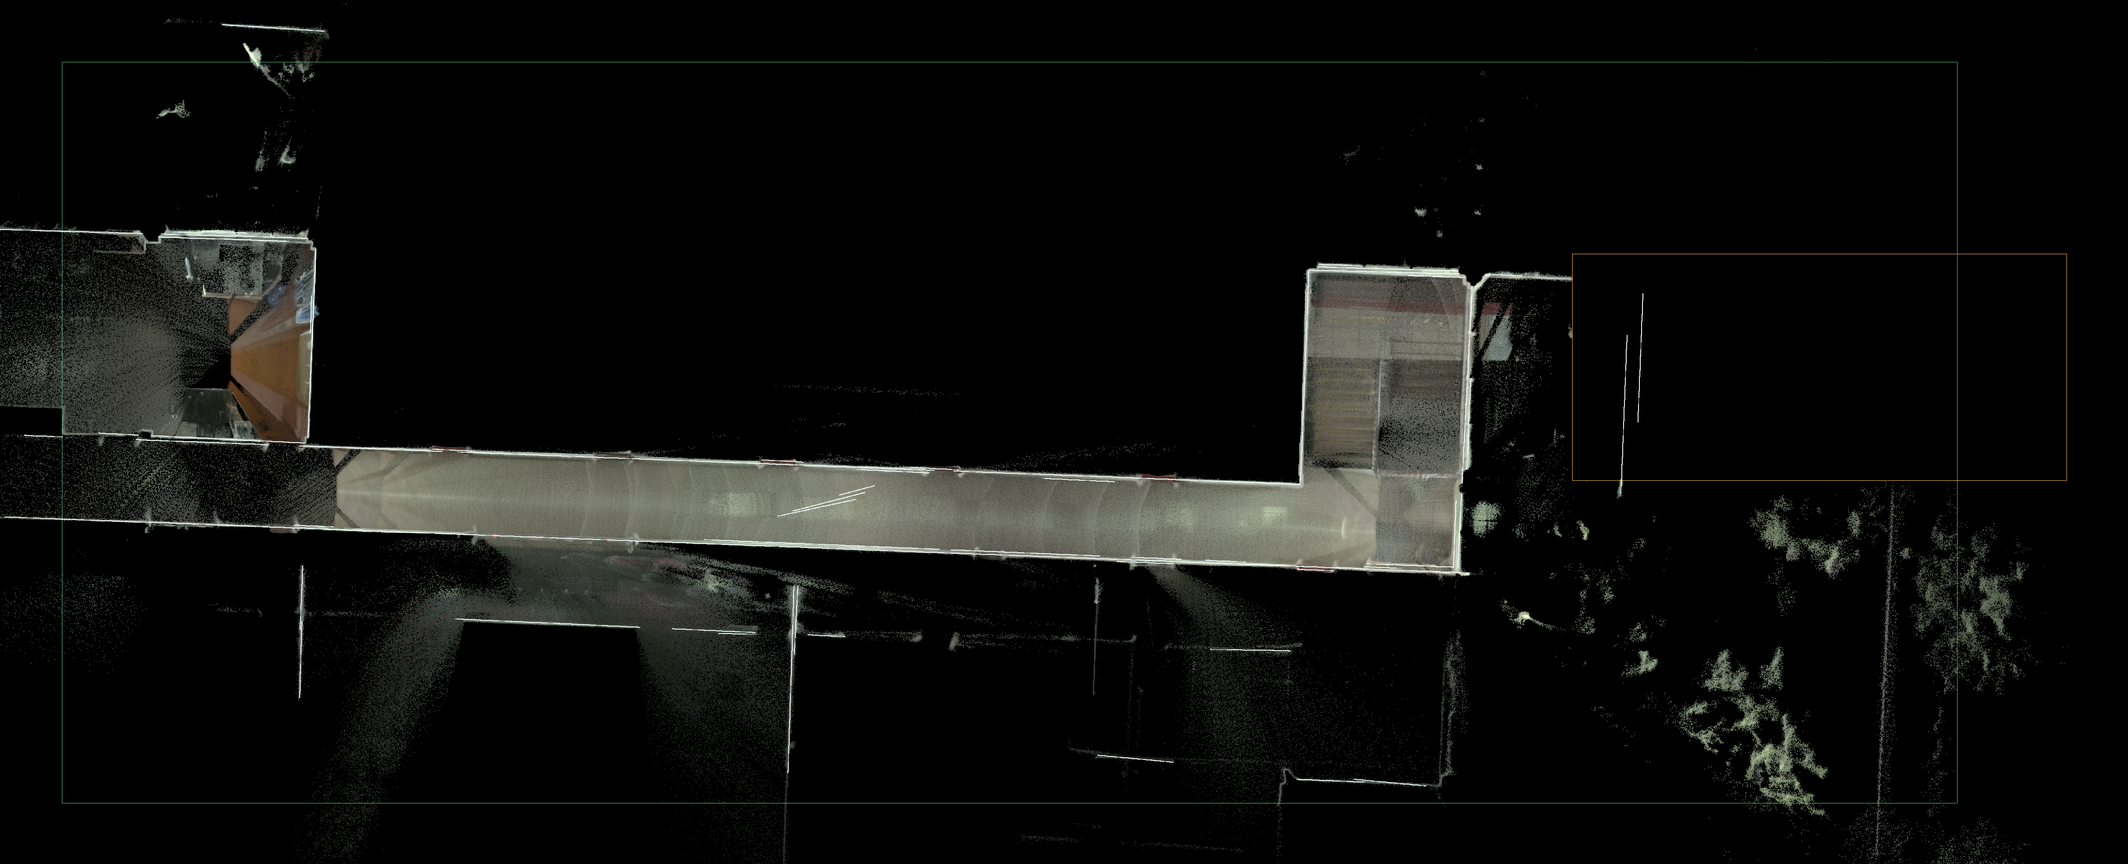
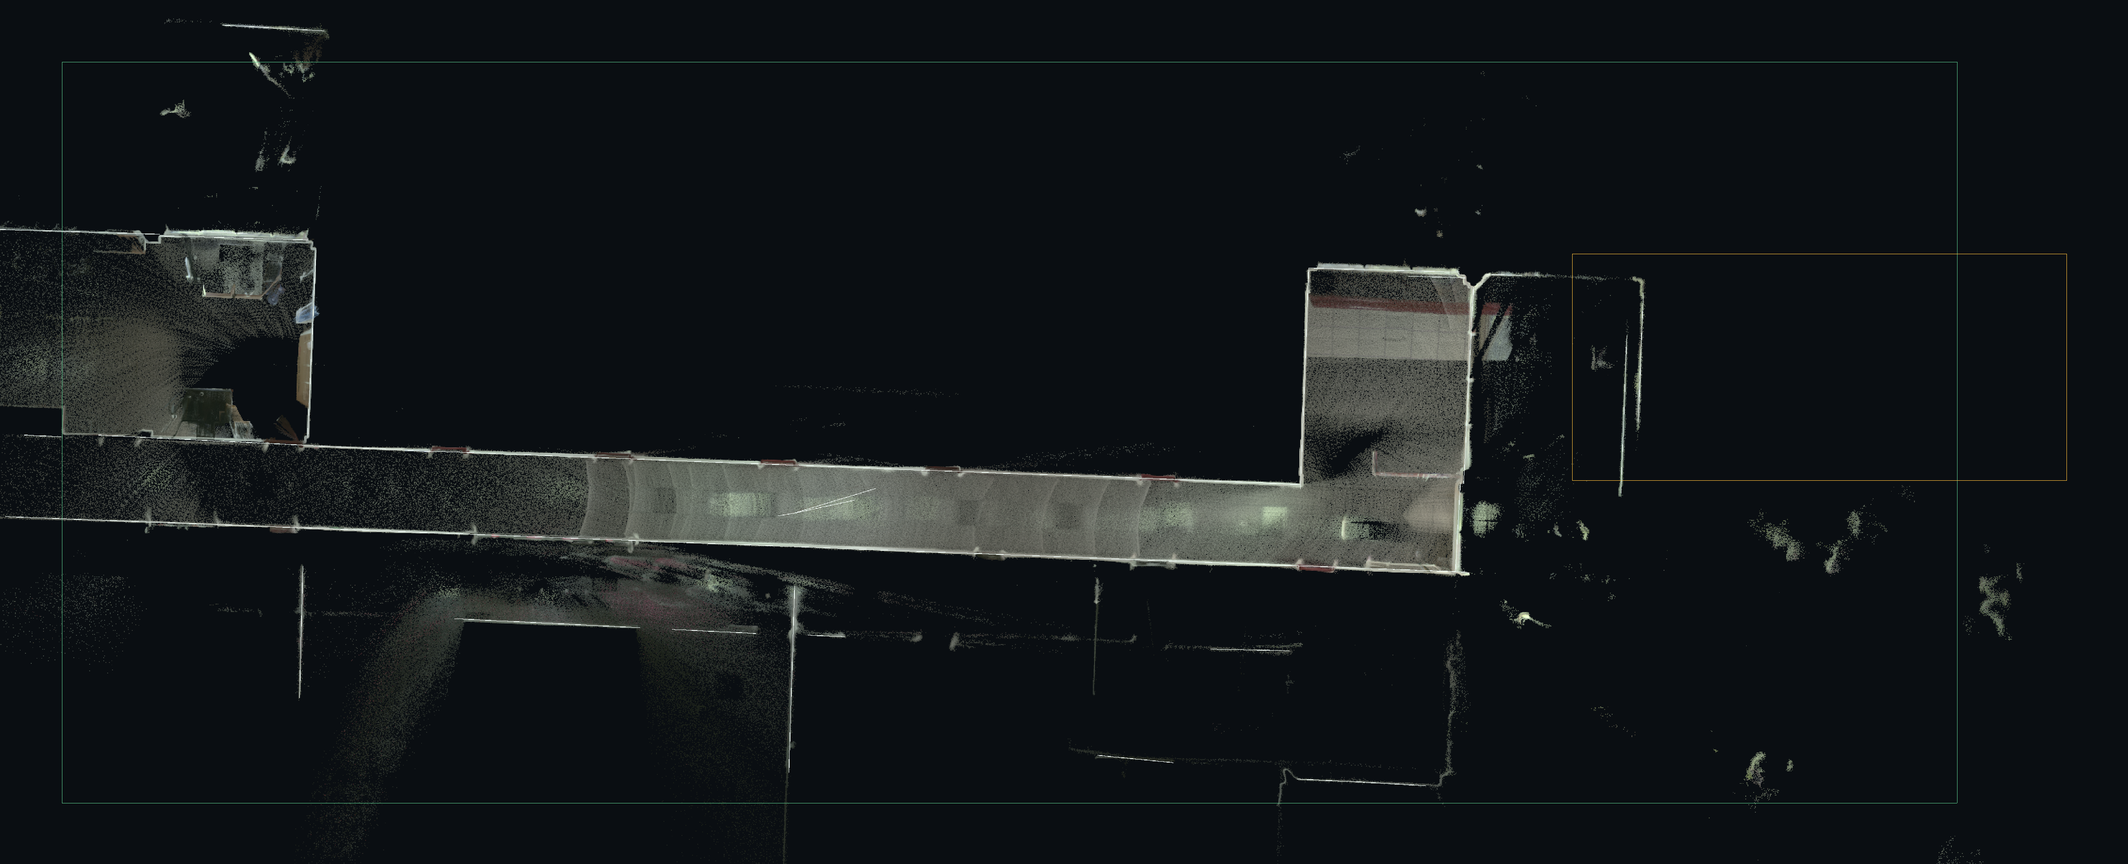
Re-run the cleanup case on the integrated a+b+c chain and record the new counts
Owner fixed the merge order (#13 -> #15 -> #14 integrated as PR #19, this PR
merges after it). Re-run the case on the integrated wall-candidate chain and
refresh every number instead of reusing the main-baseline run.

- wall candidates 64 -> 57 after cleanup (66 fitted segments; dedupe merges
  25 candidates into longer axes), nodes 87 -> 80, faces 3 -> 1, rooms 0 -> 0,
  unclosed issues 48 -> 50; east wall bands still carried by >=4,900 points
- #6 artifact check: no candidate centred in its box before cleanup, a 0.90 m
  segment there after; recorded honestly, not claimed as removed
- script now writes the comparison figures itself (pngjs devDependency) and
  accepts SURVEY_ARTIFACT_BOXES for segment-level before/after checks
- test adds an integrated-chain fixture (dedupe + join + minimal faces) that
  keeps walls, nodes and closure unchanged after removing outdoor clutter
- docs renumbered; base/CI/save-reopen scope restated for the integrated state

diff --git a/windows-studio/scripts/cleanup-case-study.ts b/windows-studio/scripts/cleanup-case-study.ts
@@ -6,17 +6,19 @@
  *   SURVEY_REAL_FIXTURE=<原件.pcd> SURVEY_WORKSPACE=<输出目录> \
  *   SURVEY_REGIONS='[{"id":"A0","label":"...","x":[33,45],"y":[-3,2.5],"z":[-10,20],"basis":"..."}]' \
  *   npm run cleanup:case-study
- * 可选环境变量：ELEVATION_M / HEIGHT_M / THICKNESS_M（默认 0 / 3 / 0.2）、SURVEY_SEED（默认 [12.5,-2.5]）。
+ * 可选环境变量：ELEVATION_M / HEIGHT_M / THICKNESS_M（默认 0 / 3 / 0.2）、SURVEY_SEED（默认 [12.5,-2.5]）、
+ *   SURVEY_ARTIFACT_BOXES（如 [{"id":"#6","box":[-5.1,-2.4,-3.1,-1.5]}]，核对指定伪影段在清理前后是否仍在）。
  * 只读源件；输出写入 SURVEY_WORKSPACE（默认 artifacts/cleanup-case-study/<样本名>）。
  * 未验证范围：Windows/Electron 实机保存重开、界面交互；本脚本不改动任何源点云或工程文件。
  */
 import { createHash } from "node:crypto";
 import { mkdir, open, writeFile } from "node:fs/promises";
 import { basename } from "node:path";
+import { PNG } from "pngjs";
 import { readCloud } from "../src/pipeline/binaryPcd";
 import { fitWallLines, type WallSegment } from "../src/pipeline/wallLines";
 import { ClipState, type RegionClipRule } from "../src/domain/cleaning";
-import { buildingFromSegments, roomsFromWalls } from "../src/domain/buildingOps";
+import { buildingFromSegments, levelClosure, roomsFromWalls } from "../src/domain/buildingOps";
 import type { PointCloudData } from "../../src/domain/types";
 import type { SurveySource } from "../src/domain/project";
 
@@ -73,7 +75,15 @@ const envelopeSeconds = (performance.now() - envelopeStart) / 1000;
 const inBox = (x: number, y: number) => x >= buildingBox.min[0] && x <= buildingBox.max[0] && y >= buildingBox.min[1] && y <= buildingBox.max[1];
 const countInBox = (c: PointCloudData) => { let n = 0; for (let i = 0; i < c.visible.length; i++) if (c.visible[i] && inBox(c.positions[i * 3]!, c.positions[i * 3 + 1]!)) n++; return n; };
 
-// ---- 3. 墙候选链路（与 analysis.worker.ts 的 building 分支同一顺序：高度剖切 → fitWallLines → buildingFromSegments → roomsFromWalls）----
+// ---- 3. 选定区域：坐标、Z 范围与入选理由全部来自命令行，并随 JSON 落盘，他人可逐项重做 ----
+// 清理只用工程现有 RegionClipRule（俯视正交投影矩形，穿透视线全部深度），与 CloudView 的框选同一实现。
+const regions = JSON.parse(process.env.SURVEY_REGIONS ?? "[]") as Array<{ id: string; label: string; x: P; y: P; z: P; basis: string }>;
+if (!regions.length) throw Error("Set SURVEY_REGIONS to the selected region list (JSON).");
+const box = buildingBox, w = box.max[0] - box.min[0], h = box.max[1] - box.min[1], cx = (box.min[0] + box.max[0]) / 2, cy = (box.min[1] + box.max[1]) / 2;
+// 与 CloudView 俯视一致的 NDC 映射（正交俯视，覆盖整个建筑范围）。
+const ruleFor = (region: { x: P; y: P }): RegionClipRule => { const r = [(region.x[0] - cx) * 2 / w, (region.y[0] - cy) * 2 / h, (region.x[1] - cx) * 2 / w, (region.y[1] - cy) * 2 / h].map(v => Math.max(-1, Math.min(1, v))) as [number, number, number, number]; return { matrix: [2 / w, 0, 0, 0, 0, 2 / h, 0, 0, 0, 0, 1, 0, -2 * cx / w, -2 * cy / h, 0, 1], rect: r, mode: "remove" }; };
+
+// ---- 4. 墙候选链路（与 analysis.worker.ts 的 building 分支同一顺序：高度剖切 → fitWallLines → buildingFromSegments → roomsFromWalls）----
 const source = { name, units: "m", synthetic: false, native: { token: "cleanup", name, size: stat.size, sha256: sha256Before } } as SurveySource;
 const options = { elevationM, heightM, thicknessM, levelName: "清理案例" };
 async function runChain(visible: Uint8Array) {
@@ -85,18 +95,12 @@ async function runChain(visible: Uint8Array) {
   const fitSeconds = (performance.now() - started) / 1000;
   const building = buildingFromSegments(source, options, fitted.segments);
   const rooms = roomsFromWalls(building, building.levels[0]!.id, heightM);
-  return { working, fitted, band, fitSeconds, segments: fitted.segments, rooms: rooms.length, evidenceCells: fitted.evidenceCells };
+  const report = levelClosure(building, building.levels[0]!.id);
+  return { working, fitted, band, fitSeconds, segments: fitted.segments, rooms: rooms.length, unclosedIssues: building.unclosedIssues?.length ?? 0, closure: report, evidenceCells: fitted.evidenceCells, fittedSegments: fitted.fittedSegments ?? fitted.segments.length, dedupedSegments: fitted.dedupedSegments ?? fitted.segments.length };
 }
 const baseline = await runChain(Uint8Array.from(cloud.visible));
 
-// ---- 4. 选定区域与清理：只用工程现有 RegionClipRule（投影矩形，穿透视线全部深度）----
-// 区域参数（坐标米、Z 范围米）由脚本内常量给出，JSON 一并落盘，他人可逐项重做。
-const regions = JSON.parse(process.env.SURVEY_REGIONS ?? "[]") as Array<{ id: string; label: string; x: P; y: P; z: P; basis: string }>;
-if (!regions.length) throw Error("Set SURVEY_REGIONS to the selected region list (JSON).");
-const box = buildingBox, w = box.max[0] - box.min[0], h = box.max[1] - box.min[1], cx = (box.min[0] + box.max[0]) / 2, cy = (box.min[1] + box.max[1]) / 2;
-// 与 CloudView 俯视一致的 NDC 映射（正交俯视，覆盖整个建筑范围）：像素/NDC 由相机与视口按线性关系给出。
-const ruleFor = (region: { x: P; y: P }): RegionClipRule => { const r = [(region.x[0] - cx) * 2 / w, (region.y[0] - cy) * 2 / h, (region.x[1] - cx) * 2 / w, (region.y[1] - cy) * 2 / h].map(v => Math.max(-1, Math.min(1, v))) as [number, number, number, number]; return { matrix: [2 / w, 0, 0, 0, 0, 2 / h, 0, 0, 0, 0, 1, 0, -2 * cx / w, -2 * cy / h, 0, 1], rect: r, mode: "remove" }; };
-
+// ---- 5. 清理：只用工程现有框选剔除 ----
 const regionStats = regions.map(region => {
   let points = 0, inBand = 0;
   for (let i = 0; i < cloud.visible.length; i++) {
@@ -120,7 +124,67 @@ for (const region of regionStats) {
 }
 const after = await runChain(cleaned);
 
-// ---- 5. 墙段逐段对照 ----
+// ---- 6. 证据图（与本文档的 pr-evidence 图同源）：2 cm 俯视对照 + 区域放大 + 立面投影 ----
+// 用 pngjs 直接写 PNG，避免额外图像库；图幅常量固定，便于前后对照。
+const FIGURE = { cell: .02, scale: 3, X0: -5.15, X1: 46.5, Y0: -12.35, Y1: 8.65, zoomCell: .02, zoomScale: 3, sectionZ: [-6, 6] as [number, number] };
+function topView(cloudRef: PointCloudData, keep: (i: number) => boolean, x0 = FIGURE.X0, x1 = FIGURE.X1, y0 = FIGURE.Y0, y1 = FIGURE.Y1, scale = FIGURE.scale) {
+  const w = Math.round((x1 - x0) / FIGURE.cell), h = Math.round((y1 - y0) / FIGURE.cell), dens = new Float32Array(w * h), cols = new Float32Array(w * h * 3);
+  for (let i = 0; i < cloudRef.visible.length; i++) {
+    if (!keep(i)) continue;
+    const x = cloudRef.positions[i * 3]!, y = cloudRef.positions[i * 3 + 1]!, z = cloudRef.positions[i * 3 + 2]!;
+    if (x < x0 || x > x1 || y < y0 || y > y1 || z < elevationM || z > elevationM + heightM) continue;
+    const k = Math.floor((y - y0) / FIGURE.cell) * w + Math.floor((x - x0) / FIGURE.cell);
+    dens[k]!++; cols[k * 3] += cloudRef.colors[i * 3]!; cols[k * 3 + 1] += cloudRef.colors[i * 3 + 1]!; cols[k * 3 + 2] += cloudRef.colors[i * 3 + 2]!;
+  }
+  const img = new PNG({ width: w * scale, height: h * scale });
+  for (let y = 0; y < h; y++) for (let x = 0; x < w; x++) {
+    const k = y * w + x, d = dens[k]!;
+    const lum = d ? Math.min(1, Math.log1p(d) / Math.log1p(60)) * .85 + .15 : 0;
+    const r = d ? Math.min(255, cols[k * 3]! / d * lum + 20) : 10, g = d ? Math.min(255, cols[k * 3 + 1]! / d * lum + 24) : 14, b = d ? Math.min(255, cols[k * 3 + 2]! / d * lum + 20) : 18;
+    for (let sy = 0; sy < scale; sy++) for (let sx = 0; sx < scale; sx++) { const idx = (((h - 1 - y) * scale + sy) * w * scale + x * scale + sx) * 4; img.data[idx] = r; img.data[idx + 1] = g; img.data[idx + 2] = b; img.data[idx + 3] = 255; }
+  }
+  return { img, w, h, scale, x0, y0, y1, cell: FIGURE.cell };
+}
+const put = (img: PNG, x: number, y: number, c: [number, number, number]) => { for (const [dx, dy] of [[0, 0], [1, 0], [0, 1]]) { const ix = x + dx, iy = y + dy; if (ix < 0 || iy < 0 || ix >= img.width || iy >= img.height) continue; const idx = (iy * img.width + ix) * 4; img.data[idx] = c[0]; img.data[idx + 1] = c[1]; img.data[idx + 2] = c[2]; img.data[idx + 3] = 255; } };
+const line = (img: PNG, v: ReturnType<typeof topView>, a: P, b: P, c: [number, number, number]) => {
+  const sx = (p: P) => Math.round((p[0] - v.x0) / v.cell) * v.scale, sy = (p: P) => Math.round((v.y1 - p[1]) / v.cell) * v.scale;
+  const x0 = sx(a), y0 = sy(a), x1 = sx(b), y1 = sy(b), steps = Math.max(1, Math.ceil(Math.hypot(x1 - x0, y1 - y0)));
+  for (let i = 0; i <= steps; i++) put(img, Math.round(x0 + (x1 - x0) * i / steps), Math.round(y0 + (y1 - y0) * i / steps), c);
+};
+const rect = (img: PNG, v: ReturnType<typeof topView>, x0: number, y0: number, x1: number, y1: number, c: [number, number, number]) => {
+  line(img, v, [x0, y0], [x1, y0], c); line(img, v, [x1, y0], [x1, y1], c); line(img, v, [x1, y1], [x0, y1], c); line(img, v, [x0, y1], [x0, y0], c);
+};
+const crop = (v: ReturnType<typeof topView>, box: [number, number, number, number]) => {
+  const [bx0, by0, bx1, by1] = box, X0 = Math.floor((bx0 - v.x0) / v.cell) * v.scale, X1 = Math.ceil((bx1 - v.x0) / v.cell) * v.scale, Y0 = Math.floor((v.y1 - by1) / v.cell) * v.scale, Y1 = Math.ceil((v.y1 - by0) / v.cell) * v.scale;
+  const w = Math.max(1, Math.min(v.img.width, X1) - Math.max(0, X0)), h = Math.max(1, Math.min(v.img.height, Y1) - Math.max(0, Y0)), out = new PNG({ width: w, height: h });
+  for (let y = 0; y < h; y++) for (let x = 0; x < w; x++) { const s = ((Math.max(0, Y0) + y) * v.img.width + Math.max(0, X0) + x) * 4, d = (y * w + x) * 4; for (let c = 0; c < 4; c++) out.data[d + c] = v.img.data[s + c]!; }
+  return out;
+};
+const sideBySide = (left: PNG, right: PNG) => {
+  const gap = 20, img = new PNG({ width: left.width + gap + right.width, height: Math.max(left.height, right.height) });
+  for (let i = 3; i < img.data.length; i += 4) img.data[i] = 255;
+  for (const [src, offset] of [[left, 0], [right, left.width + gap]] as Array<[PNG, number]>) for (let y = 0; y < src.height; y++) for (let x = 0; x < src.width; x++) { const s = (y * src.width + x) * 4, d = (y * img.width + offset + x) * 4; for (let c = 0; c < 4; c++) img.data[d + c] = src.data[s + c]!; }
+  return img;
+};
+const eastern = regions.reduce((m, r) => Math.max(m, r.x[1]), -Infinity), figureBox: [number, number, number, number] = [Math.min(...regions.map(r => r.x[0])), Math.min(...regions.map(r => r.y[0])), eastern, Math.max(...regions.map(r => r.y[1]))];
+const viewBefore = topView(cloud, i => !!cloud.visible[i]), remaining = topView(cloud, i => !!cleaned[i]);
+for (const [v, segs] of [[viewBefore, baseline.segments], [remaining, after.segments]] as Array<[ReturnType<typeof topView>, typeof baseline.segments]>) {
+  rect(v.img, v, buildingBox.min[0], buildingBox.min[1], buildingBox.max[0], buildingBox.max[1], [90, 200, 140]);
+  rect(v.img, v, figureBox[0], figureBox[1], figureBox[2], figureBox[3], [255, 190, 60]);
+  for (const s of segs) line(v.img, v, s.a, s.b, [240, 250, 245]);
+}
+await mkdir(`${out}/figures`, { recursive: true });
+await writeFile(`${out}/figures/before.png`, PNG.sync.write(viewBefore.img));
+await writeFile(`${out}/figures/after.png`, PNG.sync.write(remaining.img));
+await writeFile(`${out}/figures/before-after.png`, PNG.sync.write(sideBySide(viewBefore.img, remaining.img)));
+await writeFile(`${out}/figures/region-before.png`, PNG.sync.write(crop(viewBefore, figureBox)));
+await writeFile(`${out}/figures/region-after.png`, PNG.sync.write(crop(remaining, figureBox)));
+// 图例：左 = 清理前，右 = 清理后；同一范围、同一配色、同一墙候选绘制方式。
+
+
+
+
+// ---- 7. 墙段逐段对照 ----
 // 逐段对照的第一层：给出每段的墙轴方向与中轴平行距离；判定“同一墙段”见下方 sameWall。
 const axisDistance = (s: WallSegment, other: WallSegment) => {
   const length = distance(s.a, s.b), oLen = distance(other.a, other.b);
@@ -181,7 +245,14 @@ const eastSupport = (working: PointCloudData, segments: WallSegment[]) => segmen
   }
   return { a: s.a.map(round) as P, b: s.b.map(round) as P, lengthM: round(distance(s.a, s.b)), support: s.support, pointsEastOfRegionM: points };
 });
-// ---- 6. 墙厚带内点数（伪影判定口径与 PR #8 诊断一致：墙厚带内点数、0.45 m 带宽内点数）----
+// 伪影段核对（#8 诊断的缺陷段）：给出清理前后中心落在指定方框内的候选，用于判断清理是否影响该段。
+const artifacts: Array<{ id: string; box: [number, number, number, number]; before: Array<{ a: P; b: P; lengthM: number }>; after: Array<{ a: P; b: P; lengthM: number }> }> = [];
+const artifactBoxes = JSON.parse(process.env.SURVEY_ARTIFACT_BOXES ?? "[]") as Array<{ id: string; box: [number, number, number, number] }>;
+for (const { id, box: b } of artifactBoxes) {
+  const inside = (segs: WallSegment[]) => segs.filter(s => (s.a[0] + s.b[0]) / 2 >= b[0] && (s.a[0] + s.b[0]) / 2 <= b[2] && (s.a[1] + s.b[1]) / 2 >= b[1] && (s.a[1] + s.b[1]) / 2 <= b[3]).map(s => ({ a: s.a.map(round) as P, b: s.b.map(round) as P, lengthM: round(distance(s.a, s.b)) }));
+  artifacts.push({ id, box: b, before: inside(baseline.segments), after: inside(after.segments) });
+}
+// ---- 8. 墙厚带内点数（伪影判定口径与 PR #8 诊断一致：墙厚带内点数、0.45 m 带宽内点数）----
 const bandMetrics = (working: PointCloudData, segments: WallSegment[]) => segments.map(s => {
   const dx = s.b[0] - s.a[0], dy = s.b[1] - s.a[1], length = Math.hypot(dx, dy), half = thicknessM / 2;
   let inside = 0, near = 0;
@@ -196,7 +267,7 @@ const bandMetrics = (working: PointCloudData, segments: WallSegment[]) => segmen
 });
 const beforeMetrics = bandMetrics(baseline.working, baseline.segments), afterMetrics = bandMetrics(after.working, after.segments);
 
-// ---- 7. 源件完整性复核 ----
+// ---- 9. 源件完整性复核 ----
 const handle2 = await open(file, "r"), hash2 = createHash("sha256");
 for (let offset = 0; offset < stat.size; offset += 64 * 1024 ** 2) { const size = Math.min(64 * 1024 ** 2, stat.size - offset), buffer = Buffer.alloc(size); await handle2.read(buffer, 0, size, offset); hash2.update(buffer); }
 const sha256After = hash2.digest("hex"); await handle2.close();
@@ -211,8 +282,8 @@ const report = {
   timings: { decodeSeconds: round(decodeSeconds), envelopeSeconds: round(envelopeSeconds), baselineFitSeconds: round(baseline.fitSeconds), afterFitSeconds: round(after.fitSeconds) },
   regions: regionStats,
   removalLog,
-  baseline: { pointsInBuildingEnvelopeAndBand: baseline.band, evidenceCells: baseline.evidenceCells, wallCandidates: baseline.segments.length, rooms: baseline.rooms },
-  after: { pointsInBuildingEnvelopeAndBand: after.band, evidenceCells: after.evidenceCells, wallCandidates: after.segments.length, rooms: after.rooms },
+  baseline: { pointsInBuildingEnvelopeAndBand: baseline.band, evidenceCells: baseline.evidenceCells, fittedSegments: baseline.fittedSegments, wallCandidates: baseline.segments.length, rooms: baseline.rooms, unclosedIssues: baseline.unclosedIssues, closure: baseline.closure },
+  after: { pointsInBuildingEnvelopeAndBand: after.band, evidenceCells: after.evidenceCells, fittedSegments: after.fittedSegments, wallCandidates: after.segments.length, rooms: after.rooms, unclosedIssues: after.unclosedIssues, closure: after.closure },
   removedPoints: removed,
   regionPointsInRegister: regionStats.map((r, i) => ({ id: r.id, points: r.points, inHeightBandPoints: r.inHeightBandPoints, removedByRule: removalLog[i]!.removed })),
   retainedAfterCleanup: cleaned.reduce((sum, v) => sum + v, 0),
@@ -220,9 +291,11 @@ const report = {
   added: addedDetail,
   lostSegments: lostDetail,
   eastSupport: { before: eastSupport(baseline.working, baseline.segments), after: eastSupport(after.working, after.segments) },
+  artifacts,
   metrics: { before: beforeMetrics, after: afterMetrics, thicknessPairs: mutual.map(m => ({ beforeIndex: m.beforeIndex, afterIndex: m.afterIndex, pointsInThicknessBefore: beforeMetrics[m.beforeIndex]!.pointsInThickness, pointsInThicknessAfter: afterMetrics[m.afterIndex]!.pointsInThickness })) },
 };
 await writeFile(`${out}/cleanup-case-study.json`, JSON.stringify(report, null, 2));
 await writeFile(`${out}/segments-before.json`, JSON.stringify(baseline.segments));
 await writeFile(`${out}/segments-after.json`, JSON.stringify(after.segments));
+await writeFile(`${out}/figures/manifest.json`, JSON.stringify({ figures: ["before.png", "after.png", "before-after.png", "region-before.png", "region-after.png"], regionFigure: figureBox, buildingEnvelope: report.buildingEnvelope, legend: "left = before cleanup, right = after cleanup; green = building envelope, orange = cleaned region, white = wall candidates" }, null, 2));
 console.log(JSON.stringify({ source: report.source, buildingEnvelope: report.buildingEnvelope, regions: report.regions, removalLog, baseline: report.baseline, after: report.after, lostSegments: report.lostSegments.length, timings: report.timings }, null, 2));

diff --git a/windows-studio/tests/cleanup-case-study.test.ts b/windows-studio/tests/cleanup-case-study.test.ts
@@ -2,13 +2,15 @@ import { expect, it } from "vitest";
 import type { PointCloudData } from "../../src/domain/types";
 import { ClipState, pointInClip, type RegionClipRule } from "../src/domain/cleaning";
 import { fitWallLines } from "../src/pipeline/wallLines";
+import { buildingFromSegments, levelClosure, roomsFromWalls } from "../src/domain/buildingOps";
 import type { SurveySource } from "../src/domain/project";
 
 /**
  * RD-02 清理案例的夹具与回归：
  * 1. 工程现有框选规则（俯视正交投影矩形、穿透全部深度）只删除框内点，框外点逐点保留，可撤销；
  * 2. 建筑包络（30cm 栅格 → 1m 窗口密度 → 8 邻接连片）不把独立的室外结构并入建筑范围；
- * 3. 墙段对照按“同一墙轴 + 投影覆盖”判同一墙段，不被拟合粒度变化误判为丢失。
+ * 3. 集成后墙候选链路（去重 + 墙网连接 + 最小面房间）在清理杂点后不丢墙、不改变闭合结论；
+ * 4. 墙段对照按“同一墙轴 + 投影覆盖”判同一墙段，不被拟合粒度变化误判为丢失。
  */
 
 const keepCount = (cloud: PointCloudData, rule: RegionClipRule) => { let n = 0; for (let i = 0; i < cloud.visible.length; i++) if (!pointInClip(cloud.positions[i * 3]!, cloud.positions[i * 3 + 1]!, cloud.positions[i * 3 + 2]!, rule)) n++; return n; };
@@ -60,6 +62,39 @@ it("删除框内杂点不减少真实墙面证据：墙候选与墙长保持", a
   const after = await fitWallLines(cloud, () => {});
   expect(after.segments.length).toBe(before.segments.length);
   expect(after.evidenceCells).toBe(before.evidenceCells);
+  const total = (segs: typeof before.segments) => segs.reduce((sum, s) => sum + Math.hypot(s.b[0] - s.a[0], s.b[1] - s.a[1]), 0);
+  expect(total(after.segments)).toBeCloseTo(total(before.segments), 6);
+});
+
+it("集成后墙候选链路（去重 + 连接 + 最小面）在删除室外杂点后保留全部墙段与闭合状态", async () => {
+  // 4×3 m 封闭房间（0.06 m 证据格、0.1 m 网格、0.1 m 高度步长），外加东侧 6 m 外的一团室外杂点。
+  const rows: number[][] = [];
+  const wall = (x0: number, y0: number, x1: number, y1: number) => {
+    const steps = Math.ceil(Math.hypot(x1 - x0, y1 - y0) / .06);
+    for (let i = 0; i <= steps; i++) for (let t = -.05; t <= .05; t += .05) for (let z = .1; z <= 2.9; z += .1) {
+      const x = x0 + (x1 - x0) * i / steps, y = y0 + (y1 - y0) * i / steps, ox = -(y1 - y0), oy = x1 - x0, len = Math.hypot(ox, oy) || 1;
+      rows.push([x + ox / len * t, y + oy / len * t, z]);
+    }
+  };
+  wall(0, 0, 4, 0); wall(4, 0, 4, 3); wall(0, 0, 0, 3); wall(0, 3, 4, 3);
+  for (let i = 0; i < 300; i++) rows.push([10 + (i % 10) * .05, -(i % 12) * .05, .6 + (i % 5) * .02]);
+  const cloud = cloudOf(rows);
+  const source: SurveySource = { name: "case.pcd", units: "m", synthetic: true } as SurveySource;
+  const options = { elevationM: 0, heightM: 3, thicknessM: .2, levelName: "案例" };
+  const seal = (m: ReturnType<typeof buildingFromSegments>) => { const id = m.levels[0]!.id; return { report: levelClosure(m, id), unclosedIssues: m.unclosedIssues ?? [], rooms: roomsFromWalls(m, id, 3) }; };
+  const before = await fitWallLines(cloud, () => {});
+  const beforeClosure = seal(buildingFromSegments(source, options, before.segments));
+  const rule = topViewRule([-2, -3, 12, 5], [9.4, -1.2, 10.6, .2]);
+  new ClipState(cloud).sync([rule]);
+  const after = await fitWallLines(cloud, () => {});
+  const afterClosure = seal(buildingFromSegments(source, options, after.segments));
+  // 清理只删掉室外杂点：拟合段数、墙候选数、墙网节点与房间结论都不变。
+  expect(after.evidenceCells).toBe(before.evidenceCells);
+  expect(after.segments.length).toBe(before.segments.length);
+  expect(afterClosure.rooms.length).toBe(beforeClosure.rooms.length);
+  expect(afterClosure.report.walls).toBe(beforeClosure.report.walls);
+  expect(afterClosure.report.nodes).toBe(beforeClosure.report.nodes);
+  expect(afterClosure.unclosedIssues.length).toBe(beforeClosure.unclosedIssues.length);
   const total = (segs: typeof before.segments) => segs.reduce((sum, s) => sum + Math.hypot(s.b[0] - s.a[0], s.b[1] - s.a[1]), 0);
   expect(total(after.segments)).toBeCloseTo(total(before.segments), 6);
 });
